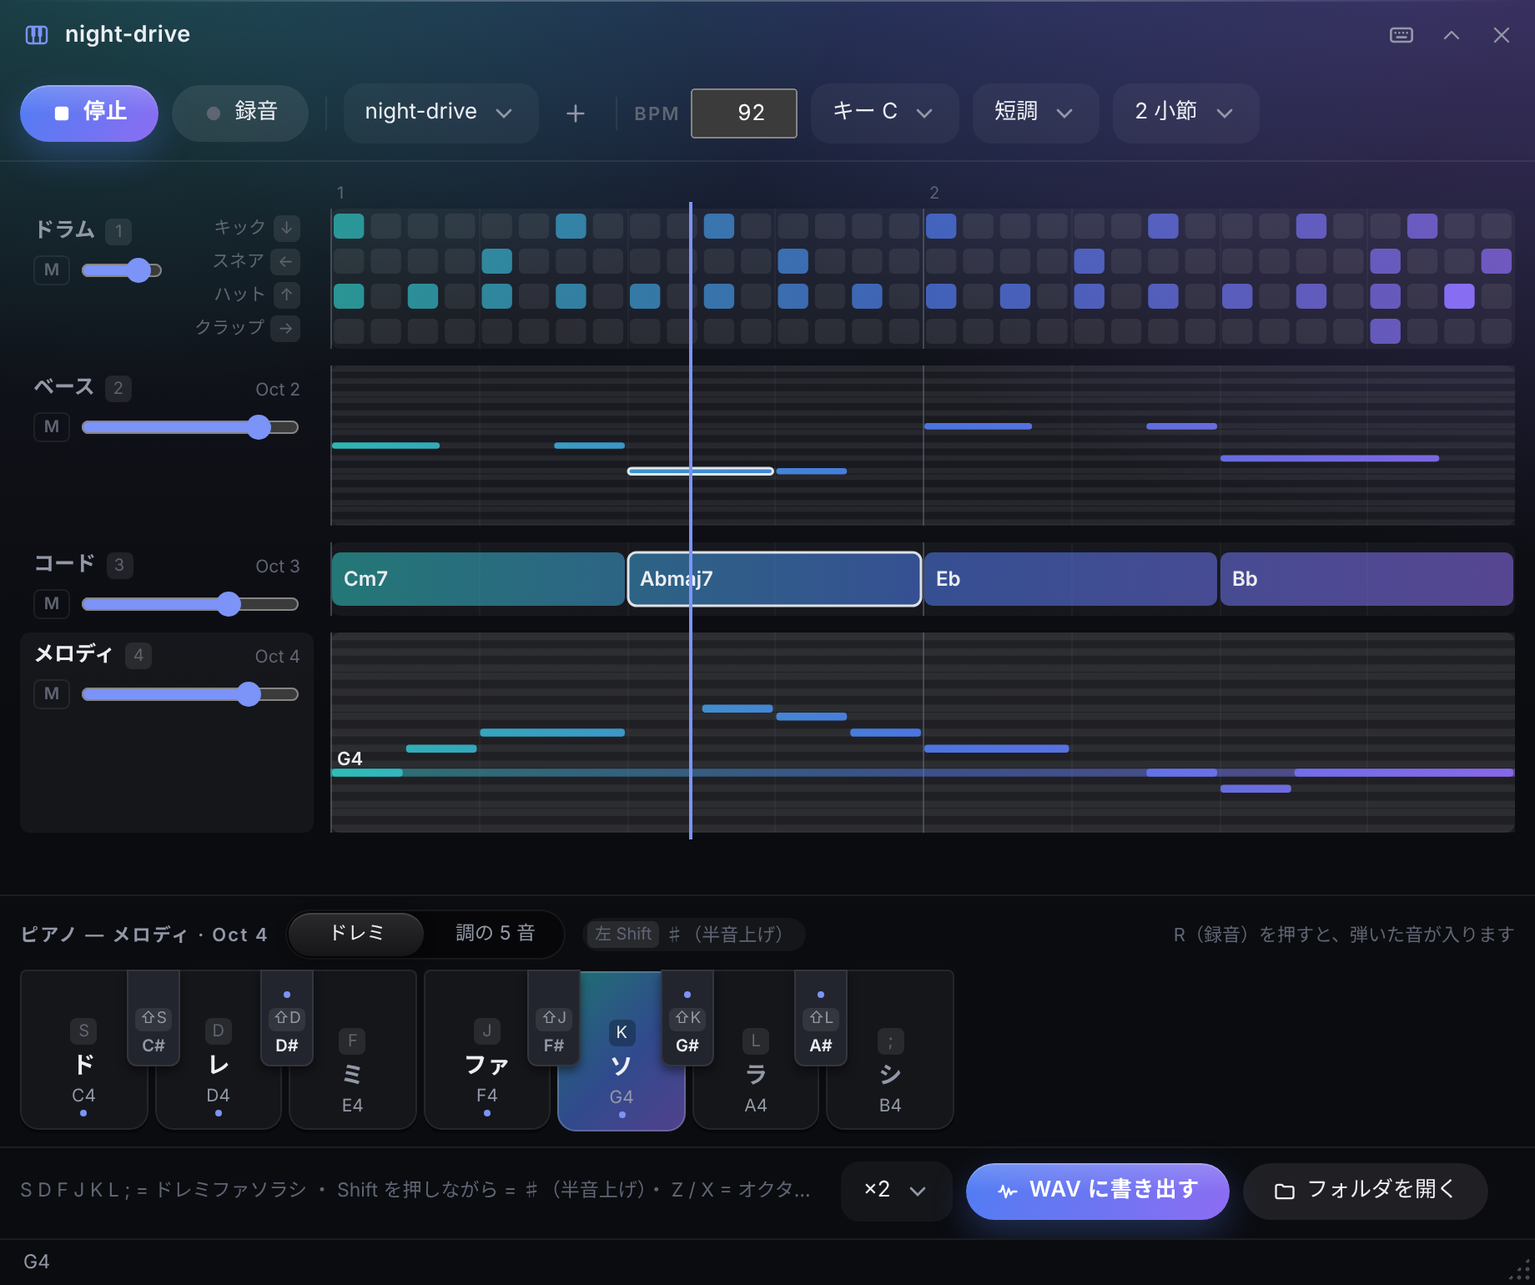
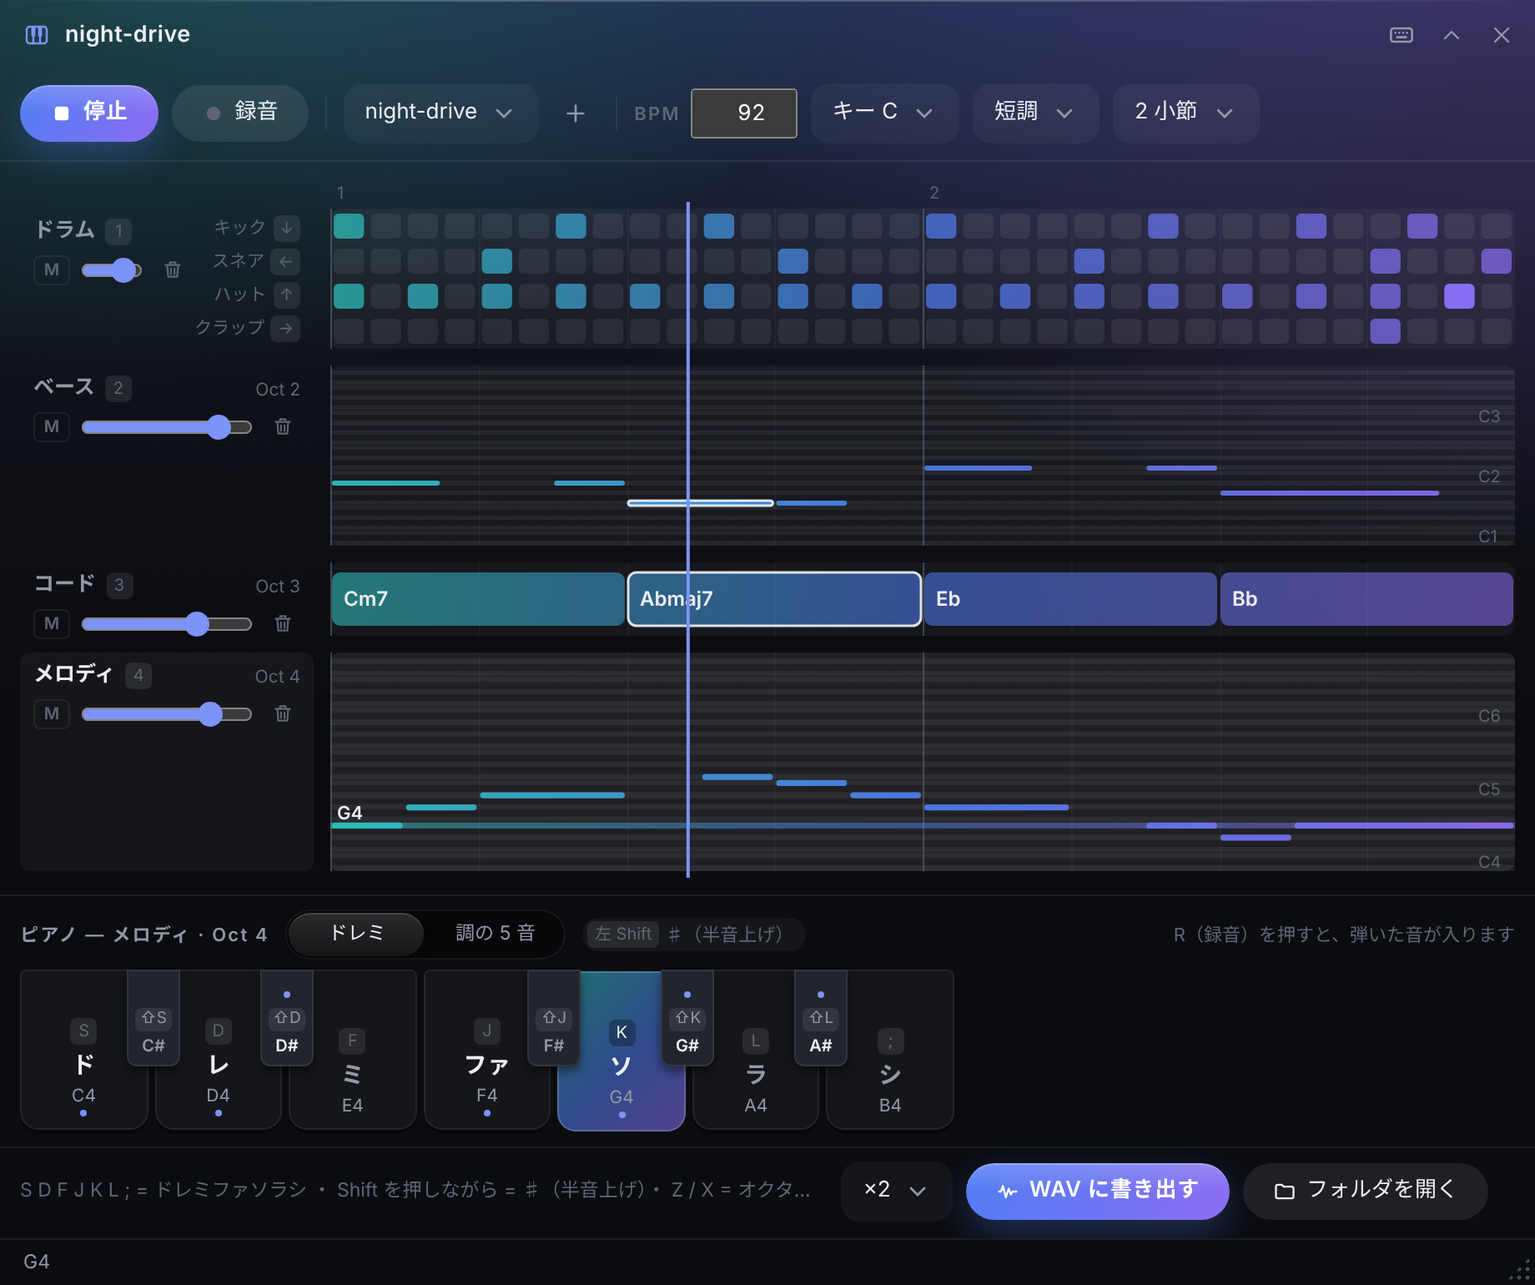
0.5.0: half-bar chords, easier erasing, taller lanes
- Chords snap to half bars (first half fills the bar, second half splits it)
- Right-click erases cells, notes and chords; per-part clear button
- Piano-roll range follows the notes; lanes grow with the window
- Fix chord menu closing right after opening on repeated clicks

Claude-Session: https://claude.ai/code/session_01G4eNKxsgtjSSS899iDKyyJ

diff --git a/ui/panel.js b/ui/panel.js
@@ -28,7 +28,7 @@ const L = EN ? {
   warn: "Some parts were skipped",
   padDrums: "Drum pads", padPiano: (p) => `Piano — ${p}`, sharpChip: "♯", sharpChord: "7th",
   stepRec: "Rec (stopped): keys write at the cursor and move it on", liveRec: "Rec: notes are written while playing", noRec: "Press R (record) to write what you play",
-  triads: "Chords", sevenths: "7th chords", clickTip: "Click a key to put it at the cursor (▼)", rhythm: "Rhythm presets", rhythmSet: (n) => `Set “${n}” (Ctrl+Z to undo)`, del: "Delete", placeChord: "Pick a chord for this spot",
+  triads: "Chords", sevenths: "7th chords", clearPart: (p) => `Clear ${p}`, cleared: (p) => `Cleared ${p} (Ctrl+Z to undo)`, clickTip: "Click a key to put it at the cursor (▼)", rhythm: "Rhythm presets", rhythmSet: (n) => `Set “${n}” (Ctrl+Z to undo)`, del: "Delete", placeChord: "Pick a chord for this spot",
 } : {
   dropFolder: "スケッチの保存先にするフォルダを、ここに落としてください",
   dropNote: "おすすめ: フォルダ窓のフォルダ（例: registries\\Sketch）を使い、Hub の設定で Claude に「読み書き」で共有すると、Claude がスケッチを直せます。",
@@ -51,7 +51,7 @@ const L = EN ? {
   warn: "読み飛ばした所があります",
   padDrums: "ドラムパッド", padPiano: (p) => `ピアノ — ${p}`, sharpChip: "♯（半音上げ）", sharpChord: "7th",
   stepRec: "録音待機（停止中）: 押した音がカーソルの位置に入り、カーソルが進みます", liveRec: "録音中: 再生しながら押した音が入ります", noRec: "R（録音）を押すと、弾いた音が入ります",
-  triads: "コード", sevenths: "7th のコード", clickTip: "クリックすると、カーソル（▼）の位置に入ります", rhythm: "リズムのプリセット", rhythmSet: (n) => `「${n}」にしました（Ctrl+Z で戻せます）`, del: "消す", placeChord: "ここに置くコードを選んでください",
+  triads: "コード", sevenths: "7th のコード", clearPart: (p) => `${p}を全部消す`, cleared: (p) => `${p}を消しました（Ctrl+Z で戻せます）`, clickTip: "クリックすると、カーソル（▼）の位置に入ります", rhythm: "リズムのプリセット", rhythmSet: (n) => `「${n}」にしました（Ctrl+Z で戻せます）`, del: "消す", placeChord: "ここに置くコードを選んでください",
 };
 
 const PARTS = ["drums", "bass", "chords", "melody"];
@@ -73,8 +73,7 @@ const RHYTHMS = [
   { ja: "ファンク", en: "Funk", kick: "x..x..x...x.....", snare: "....x..x.x..x...", hat: "xxxxxxxxxxxxxxxx" },
   { ja: "空にする", en: "Clear", kick: "", snare: "", hat: "", clap: "" },
 ];
-const LANE = { head: 18, drums: 84, chords: 44, bass: 96, melody: 120, gap: 10 };
-const PITCH_SPAN = 25;                       // ピアノロールに出す音の数（2 オクターブ + 1）
+const LANE = { head: 18, drums: 84, chords: 44, bass: 120, melody: 150, gap: 10 };   // bass / melody は窓の高さに合わせて伸ばす
 const svg = (d) => `<svg class="icon" viewBox="0 0 24 24" fill="none" stroke="currentColor" stroke-width="2" stroke-linecap="round" stroke-linejoin="round" aria-hidden="true">${d}</svg>`;
 const IC = {
   play: svg('<path d="M7 5v14l11-7z" fill="currentColor"/>'), stop: svg('<rect x="6" y="6" width="12" height="12" rx="2" fill="currentColor"/>'),
@@ -82,6 +81,7 @@ const IC = {
   keys: svg('<rect x="2.5" y="6" width="19" height="12" rx="2.5"/><path d="M6.5 10h.01M10 10h.01M13.5 10h.01M17 10h.01M8 14h8"/>'),
   folder: svg('<path d="M3 7a2 2 0 0 1 2-2h4l2 2h8a2 2 0 0 1 2 2v8a2 2 0 0 1-2 2H5a2 2 0 0 1-2-2z"/>'),
   wave: svg('<path d="M3 12h2l2-6 3 12 3-9 2 6 2-3h4"/>'),
+  trash: svg('<path d="M4 7h16M10 11v6M14 11v6"/><path d="M6 7l1 13h10l1-13M9 7V4h6v3"/>'),
 };
 
 export async function mount(el, ctx) {
@@ -299,13 +299,13 @@ export async function mount(el, ctx) {
     updatePad(); draw();
     if (h.part !== part) return;
     if (!playing && (rec || h.mouse)) return stepInput(h);     // 止まっているとき: マウスで押した音は、そのままカーソルの位置に入る
-    if (!rec || !playing) return;
+    if (!rec && !h.mouse) return;                               // 再生中: 録音中か、マウスで押した音だけ入れる
     const s = steps();
     let len = position() - h.startPos;
     if (len < 0) len += s;
-    if (h.chord) {             // コードは拍（4 ステップ）にそろえる
-      const at = (Math.round(h.startPos / 4) * 4) % s;
-      const ln = Math.min(Math.max(4, Math.round(len / 4) * 4), s - at);
+    if (h.chord) {             // コードは半小節（8 マス）にそろえる
+      const at = (Math.round(h.startPos / 8) * 8) % s;
+      const ln = Math.min(Math.max(8, Math.round(len / 8) * 8), s - at);
       placeChord(at, ln, h.chord);
     } else {
       const at = Math.round(h.startPos) % s;
@@ -318,10 +318,9 @@ export async function mount(el, ctx) {
   function stepInput(h) {
     const s = steps();
     if (h.chord) {
-      const at = Math.floor(cursor / 4) * 4;
-      const end = Math.min(s, (Math.floor(at / 16) + 1) * 16);          // その小節の終わりまで
-      placeChord(at, end - at, h.chord);
-      cursor = end % s;
+      const { at, ln } = chordSlot(cursor);
+      placeChord(at, ln, h.chord);
+      cursor = (at + ln) % s;
     } else {
       const at = cursor, ln = Math.min(2, s - at);
       changed(() => { sk[h.part].push({ at, note: midiName(h.midi), len: ln }); sk[h.part].sort((a, b) => a.at - b.at); });
@@ -487,7 +486,9 @@ export async function mount(el, ctx) {
     buildLabels();
     const cv = $(".sk-cv");
     cv.addEventListener("pointerdown", onCanvas);
-    new ResizeObserver(() => draw()).observe($(".sk-roll"));
+    cv.addEventListener("contextmenu", eraseAt);
+    new ResizeObserver(() => { if (layoutLanes()) { buildLabels(); updateParts(); } else draw(); }).observe($(".sk-body"));
+    layoutLanes();
     updateHead(); updateTransport(); updateParts(); updateHint(); buildPad();
     ctx.setTitle(name);
     draw();
@@ -516,13 +517,19 @@ export async function mount(el, ctx) {
       row.style.top = `${laneTop(p)}px`;
       row.style.height = `${LANE[p]}px`;
       row.innerHTML = `<div class="sk-lab-top"><button type="button" class="sk-lab-name"><span></span><kbd></kbd></button><span class="sk-lab-oct"></span></div>
-        <div class="sk-lab-ctl"><button type="button" class="sk-mute" aria-pressed="false">M</button><input type="range" class="sk-vol" min="0" max="1" step="0.05"></div>`;
+        <div class="sk-lab-ctl"><button type="button" class="sk-mute" aria-pressed="false">M</button><input type="range" class="sk-vol" min="0" max="1" step="0.05"><button type="button" class="sk-clear">${IC.trash}</button></div>`;
       row.querySelector(".sk-lab-name span").textContent = L.parts[p];
       row.querySelector("kbd").textContent = keyLabel(hintKey[p]);
       row.querySelector(".sk-lab-name").addEventListener("click", () => selectPart(p));
       const mute = row.querySelector(".sk-mute");
       mute.title = L.mute;
       mute.addEventListener("click", () => changed(() => { sk.mix[p].mute = !sk.mix[p].mute; }) || updateParts());
+      const clr = row.querySelector(".sk-clear");
+      clr.title = L.clearPart(L.parts[p]);
+      clr.addEventListener("click", () => {
+        changed(() => { if (p === "drums") for (const d of DRUMS) sk.drums[d] = ".".repeat(steps()); else sk[p] = []; });
+        ctx.toast(L.cleared(L.parts[p]));
+      });
       const v = row.querySelector(".sk-vol");
       v.value = sk.mix[p].vol;
       v.addEventListener("input", () => { sk.mix[p].vol = Number(v.value); });
@@ -680,9 +687,27 @@ export async function mount(el, ctx) {
     const w = main.querySelector(".sk-roll").clientWidth;
     return { cv, w, h: totalH(), sw: w / steps() };
   }
-  function pitchRange(p) {   // ベースは 1 オクターブ下から見せる（低い音が多いため）
-    const lo = 12 * (BASE_OCT[p] + octOff[p] + 1) + KEYS.indexOf(sk.key) - (p === "bass" ? 12 : 0);
-    return { lo, hi: lo + PITCH_SPAN - 1 };
+  // ピアノロールに出す音の範囲。鍵盤の今のオクターブ（ベースは 1 つ下から）2 オクターブ分を基本に、
+  // 置いてある音符がはみ出すときは広げる（下の音が隠れないように）。C から B までのオクターブ単位、最大 4 オクターブ
+  function pitchRange(p) {
+    const base = 12 * (BASE_OCT[p] + octOff[p] + 1) - (p === "bass" ? 12 : 0);
+    let lo = base, hi = base + 24;
+    for (const n of sk[p]) { const m = noteMidi(n.note); if (m < lo) lo = m; if (m > hi) hi = m; }
+    lo -= ((lo % 12) + 12) % 12;
+    hi += 11 - (((hi % 12) + 12) % 12);
+    if (hi - lo + 1 > 48) hi = lo + 47;
+    return { lo, hi, span: hi - lo + 1 };
+  }
+  // 窓の高さに合わせて、ベースとメロディの行を広げる（押しやすく・消しやすく）
+  function layoutLanes() {
+    const body = main.querySelector(".sk-body");
+    if (!body) return false;
+    const fixed = LANE.head + LANE.drums + LANE.chords + LANE.gap * 3 + 8;
+    const rest = Math.max(216, body.clientHeight - 16 - fixed);
+    const bass = Math.round(rest * 0.45), melody = rest - bass;
+    if (bass === LANE.bass && melody === LANE.melody) return false;
+    LANE.bass = bass; LANE.melody = melody;
+    return true;
   }
   function draw() {
     if (!sk || main.hidden) return;
@@ -708,14 +733,16 @@ export async function mount(el, ctx) {
       g.fillStyle = p === part ? c.ink3 : c.ink2;
       roundRect(g, 0, y, w, lh, 6); g.fill();
       if (p === "bass" || p === "melody") {          // 調の中の音の行を少し明るく
-        const { lo } = pitchRange(p), rh = lh / PITCH_SPAN;
+        const { lo, span } = pitchRange(p), rh = lh / span;
         g.fillStyle = c.ink4;
         g.globalAlpha = 0.45;
-        for (let i = 0; i < PITCH_SPAN; i++) if (inScale(lo + i, sk.key, sk.scale)) g.fillRect(0, y + lh - (i + 1) * rh, w, rh - 0.5);
+        for (let i = 0; i < span; i++) if (inScale(lo + i, sk.key, sk.scale)) g.fillRect(0, y + lh - (i + 1) * rh, w, rh - 0.5);
         g.globalAlpha = 1;
         g.globalAlpha = 0.5;
-        for (let i = 0; i < PITCH_SPAN; i += 12) { g.fillStyle = c.line; g.fillRect(0, y + lh - (i + 1) * rh + rh - 1, w, 1); }
+        for (let i = 0; i < span; i += 12) { g.fillStyle = c.line; g.fillRect(0, y + lh - (i + 1) * rh + rh - 1, w, 1); }
         g.globalAlpha = 1;
+        g.fillStyle = c.faint; g.font = "10px system-ui, sans-serif";      // オクターブの目印（C2, C3 …）
+        for (let i = 0; i < span; i += 12) g.fillText(`C${Math.floor((lo + i) / 12) - 1}`, w - 22, y + lh - i * rh - 2);
       }
       for (let s = 0; s <= S; s += 4) {
         g.fillStyle = s % 16 === 0 ? c.faint : c.line;
@@ -744,10 +771,10 @@ export async function mount(el, ctx) {
     }
     // ベース・メロディ
     for (const p of ["bass", "melody"]) {
-      const y = laneTop(p), lh = LANE[p], { lo, hi } = pitchRange(p), ph = lh / PITCH_SPAN;
+      const y = laneTop(p), lh = LANE[p], { lo, hi, span } = pitchRange(p), ph = lh / span;
       for (const n of sk[p]) {
         const m = noteMidi(n.note);
-        const i = Math.max(0, Math.min(PITCH_SPAN - 1, m - lo));
+        const i = Math.max(0, Math.min(span - 1, m - lo));
         g.fillStyle = grad(m < lo || m > hi ? 0.35 : 0.9);
         roundRect(g, n.at * sw + 1, y + lh - (i + 1) * ph, Math.max(3, n.len * sw - 2), Math.max(3, ph), 2); g.fill();
       }
@@ -762,9 +789,9 @@ export async function mount(el, ctx) {
         const x = (playing ? now : cursor) * sw;
         g.fillStyle = c.text; g.font = "600 13px system-ui, sans-serif"; g.fillText(h.chord, x + 8, y + LANE.chords / 2 + 5);
       } else if (h.midi != null && (h.part === "bass" || h.part === "melody")) {
-        const y = laneTop(h.part), lh = LANE[h.part], { lo } = pitchRange(h.part), ph = lh / PITCH_SPAN;
+        const y = laneTop(h.part), lh = LANE[h.part], { lo, span } = pitchRange(h.part), ph = lh / span;
         const i = h.midi - lo;
-        if (i >= 0 && i < PITCH_SPAN) {
+        if (i >= 0 && i < span) {
           g.fillStyle = grad(0.45); g.fillRect(0, y + lh - (i + 1) * ph, w, ph);
           g.fillStyle = c.text; g.font = "600 11px system-ui, sans-serif";
           g.fillText(showName(h.midi), 4, Math.max(y + 11, y + lh - (i + 1) * ph - 2));
@@ -781,10 +808,10 @@ export async function mount(el, ctx) {
       g.strokeStyle = "rgba(255,255,255,.85)"; g.lineWidth = 1.5;
       for (const ch of sk.chords) if (now >= ch.at && now < ch.at + ch.len) { roundRect(g, ch.at * sw + 1, cy + 6, ch.len * sw - 2, LANE.chords - 12, 5); g.stroke(); }
       for (const p of ["bass", "melody"]) {
-        const y = laneTop(p), lh = LANE[p], { lo } = pitchRange(p), ph = lh / PITCH_SPAN;
+        const y = laneTop(p), lh = LANE[p], { lo, span } = pitchRange(p), ph = lh / span;
         for (const n of sk[p]) {
           if (now < n.at || now >= n.at + n.len) continue;
-          const i = Math.max(0, Math.min(PITCH_SPAN - 1, noteMidi(n.note) - lo));
+          const i = Math.max(0, Math.min(span - 1, noteMidi(n.note) - lo));
           roundRect(g, n.at * sw + 1, y + lh - (i + 1) * ph, Math.max(3, n.len * sw - 2), Math.max(3, ph), 2); g.stroke();
         }
       }
@@ -827,11 +854,13 @@ export async function mount(el, ctx) {
         changed(() => { const a = sk.drums[d].split(""); a[s] = a[s] === "." ? (e.shiftKey ? "X" : "x") : "."; sk.drums[d] = a.join(""); });
         audio(); if (sk.drums[d][s] !== ".") sound(drumKey(d), ac.currentTime, null, drumGain(sk.drums[d][s]));
       } else if (p === "chords") {
-        chordMenu(s, e.clientX, e.clientY);
+        // Hub のメニューは、前に開いたメニューの「外を押したら閉じる」がこの pointerdown の後で動くことがある。
+        // 同じ操作の中で開くとすぐ閉じられてしまうので、一拍おいてから開く
+        const cx = e.clientX, cy = e.clientY;
+        setTimeout(() => chordMenu(s, cx, cy), 0);
       } else {
-        const { lo } = pitchRange(p), ph = lh / PITCH_SPAN;
-        const midi = lo + Math.floor((top + lh - y) / ph);
-        const hit = sk[p].findIndex((n) => s >= n.at && s < n.at + n.len && noteMidi(n.note) === midi);
+        const midi = midiAt(p, y);
+        const hit = noteAt(p, s, midi);
         if (hit >= 0) changed(() => sk[p].splice(hit, 1));
         else {
           changed(() => { sk[p].push({ at: s, note: midiName(midi), len: Math.min(2, steps() - s) }); sk[p].sort((a, b) => a.at - b.at); });
@@ -842,17 +871,52 @@ export async function mount(el, ctx) {
     }
   }
 
+  function midiAt(p, y) {
+    const top = laneTop(p), lh = LANE[p], { lo, span } = pitchRange(p);
+    return lo + Math.max(0, Math.min(span - 1, Math.floor((top + lh - y) / (lh / span))));
+  }
+  // その位置の音符（上下 1 行のずれまでは当たりにする。細い音符でも消しやすく）
+  function noteAt(p, s, midi) {
+    let best = -1, dist = 2;
+    sk[p].forEach((n, i) => {
+      const d = Math.abs(noteMidi(n.note) - midi);
+      if (s >= n.at && s < n.at + n.len && d < dist) { best = i; dist = d; }
+    });
+    return best;
+  }
+  // 右クリックで消す（ドラムのマス・音符・コード）
+  function eraseAt(e) {
+    e.preventDefault();
+    const { sw } = geom();
+    const r = e.currentTarget.getBoundingClientRect();
+    const x = e.clientX - r.left, y = e.clientY - r.top, s = Math.floor(x / sw);
+    if (s < 0 || s >= steps()) return;
+    for (const p of PARTS) {
+      const top = laneTop(p), lh = LANE[p];
+      if (y < top || y >= top + lh) continue;
+      if (p === "drums") {
+        const d = DRUMS[Math.min(3, Math.floor((y - top) / (lh / 4)))];
+        if (sk.drums[d][s] !== ".") changed(() => { const a = sk.drums[d].split(""); a[s] = "."; sk.drums[d] = a.join(""); });
+      } else if (p === "chords") {
+        const hit = sk.chords.find((c) => s >= c.at && s < c.at + c.len);
+        if (hit) changed(() => { sk.chords = sk.chords.filter((c) => c !== hit); });
+      } else {
+        const hit = noteAt(p, s, midiAt(p, y));
+        if (hit >= 0) changed(() => sk[p].splice(hit, 1));
+      }
+      return;
+    }
+  }
+  // コードは半小節（8 マス）単位。小節の前半に置くと、後半にコードが無ければ小節の終わりまで伸ばす
+  function chordSlot(s) {
+    const at = Math.floor(s / 8) * 8;
+    const half2 = at % 16 === 8 || sk.chords.some((c) => c.at === at + 8);
+    return { at, ln: Math.min(half2 ? 8 : 16, steps() - at) };
+  }
   // コードの行を押したとき: その調のコードから選ぶ（置いてあるコードなら差し替え・消す）
   function chordMenu(s, x, y) {
     const hit = sk.chords.find((c) => s >= c.at && s < c.at + c.len);
-    let at, ln;
-    if (hit) { at = hit.at; ln = hit.len; }
-    else {
-      at = Math.floor(s / 4) * 4;
-      const barEnd = (Math.floor(at / 16) + 1) * 16;
-      const next = sk.chords.filter((c) => c.at > at).reduce((m, c) => Math.min(m, c.at), Infinity);
-      ln = Math.min(barEnd, next, steps()) - at;
-    }
+    const { at, ln } = chordSlot(s);
     cursor = at;
     const pick = (name) => () => {
       placeChord(at, ln, name);

diff --git a/ui/sketch.css b/ui/sketch.css
@@ -49,7 +49,7 @@
 .sk-lab-oct { font: 10.5px var(--font-num); color: var(--faint); }
 .sk-drum-names { display: grid; grid-template-rows: repeat(4, 1fr); position: absolute; top: 0; right: 8px; height: 100%; box-sizing: border-box; padding: 2px 0; }
 .sk-drum-names span { display: flex; align-items: center; justify-content: flex-end; gap: 4px; font-size: 10.5px; color: var(--faint); }
-.sk-lab[data-p="drums"] .sk-lab-top, .sk-lab[data-p="drums"] .sk-lab-ctl { width: 78px; }
+.sk-lab[data-p="drums"] .sk-lab-top, .sk-lab[data-p="drums"] .sk-lab-ctl { width: 94px; }
 .sk-roll { position: relative; min-width: 0; }
 .sk-cv { display: block; width: 100%; cursor: pointer; touch-action: none; }
 
@@ -133,3 +133,6 @@
 .sk-cap.on kbd { background: rgba(0, 0, 0, .28); color: var(--text); }
 .sk-pad-rec { margin-left: auto; font-size: 11px; color: var(--faint); }
 .sk-pad-rec.on { color: var(--danger); }
+.sk-clear { display: grid; place-items: center; width: 22px; height: 18px; padding: 0; border: 0; border-radius: 4px; background: transparent; color: var(--faint); cursor: pointer; }
+.sk-clear:hover { color: var(--danger); background: var(--ink-3); }
+.sk-clear .icon { width: 13px; height: 13px; }

diff --git a/README.md b/README.md
@@ -40,6 +40,8 @@ The layout went through several rounds of real use. The table shows what was cho
 | **Two ways to record** | While playing with **R**: what you tap snaps to the 16th-note grid. While stopped: each note goes to the cursor (▼) and the cursor moves on — like typing |
 | **"5 in key" mode** | Every key plays a note of the pentatonic scale, so nothing sounds wrong. Good for a first idea |
 | **Rhythm presets** | 8-beat, 16-beat, four on the floor, rock, hip-hop, ballad, reggae, bossa nova, funk. Start from a groove, then edit |
+| **Chords snap to half bars** | One chord per bar is the most common, two per bar the next. Clicking the first half of a bar fills the whole bar; clicking the second half splits it. No more chords stuck on the 4th beat |
+| **Easy to erase** | Right-click deletes a cell, note or chord. Notes are hit even if you miss by one row. The 🗑 next to each part clears it. Lanes grow with the window, so rows are easier to hit |
 | **You can always see what is playing** | The row of the note you press glows; during playback, sounding notes and chords are outlined |
 | **Nothing is lost** | `Ctrl+Z` undo. WAV export never overwrites (`name (2).wav`). Edits made outside (by Claude) are picked up automatically |
 | **Remappable keys** | Keys are stored by physical position (`KeyboardEvent.code`), so JIS and US keyboards behave the same. A numpad preset is included |

diff --git a/CHANGELOG.md b/CHANGELOG.md
@@ -3,6 +3,18 @@
 版の付け方: `MAJOR.MINOR.PATCH`（manifest.json の `version`）。
 MAJOR = スケッチの形（`hub-sketch/1`）を壊す変更 / MINOR = 機能の追加 / PATCH = 不具合の修正。
 
+## 0.5.0 — 2026-10-12
+### 変更
+- コードを半小節（8 マス）単位に。小節の前半に置くと小節全体、後半に置くと小節を 2 つに分ける
+- ベース・メロディの行の範囲を、置いた音に合わせて広げる（低い音・高い音が隠れない）。C の行にオクターブの目印
+- ベース・メロディの行を窓の高さに合わせて広げる
+### 追加
+- 右クリックで消す（ドラムのマス・音符・コード）。音符は上下 1 行のずれまで当たり
+- パートごとの「全部消す」（🗑、Ctrl+Z で戻せる）
+- 再生中でも、鍵盤をマウスで押した音はその位置に入る
+### 修正
+- コードの行を続けて押すと、メニューが開いてすぐ閉じることがあった
+
 ## 0.4.1 — 2026-10-12
 ### 変更
 - 音のキーを `S D F J K L ;`（ドレミファソラシ）に。左手の小指で Shift を押しながら弾くと ♯（半音上げ）
